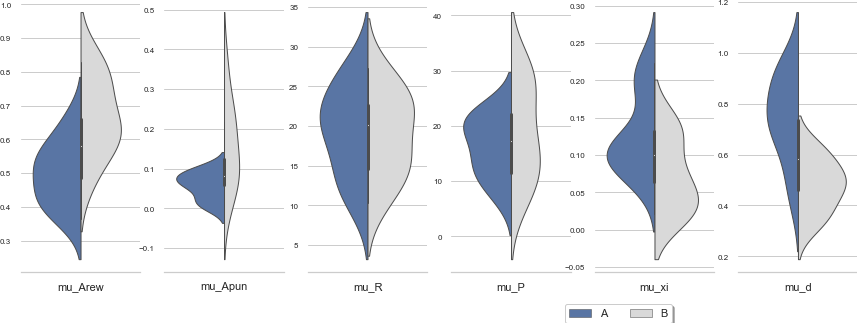
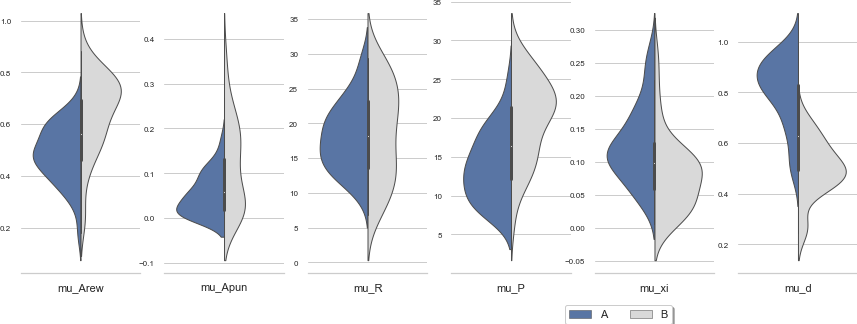
plotting added

diff --git a/data_fit/fit_bandit3arm_combined.py b/data_fit/fit_bandit3arm_combined.py
@@ -132,7 +132,7 @@ def comp_hdi_mean_data(model_name,param_ls, groups_comp=None):
 
 if __name__ == "__main__":
    # parse data
-     try:
+    try:    
         groups_comp = sys.argv[1]
         groups_comp = groups_comp.split(",")
     except IndexError:
@@ -149,6 +149,7 @@ if __name__ == "__main__":
     model_code = open('./models/bandit3arm_combLR_lapse_decay_b.stan', 'r').read()
     pars_ind = ['Arew', 'Apun', 'R', 'P', 'xi','d']
     pars = ['mu_Arew', 'mu_Apun', 'mu_R', 'mu_P', 'mu_xi','mu_d']
+    fits=[]
     for g in groups_comp:
         group_value = data_dict['group']
         print('Group: '+g)
@@ -171,6 +172,7 @@ if __name__ == "__main__":
         # fit stan model
         posterior = stan.build(program_code=model_code, data=data_dict_gr)
         fit = posterior.sample(num_samples=10, num_chains=4)
+        fits.append(fit)
         df = fit.to_frame()  # pandas `DataFrame, requires pandas
         data_dict_gr['group'] = group_value
 
@@ -195,6 +197,22 @@ if __name__ == "__main__":
         df_extracted.to_csv(sfile, index=None)
         df_ind.to_csv(s_ind_file, index=None)
         
+        diag_plot = az.plot_trace(fit,var_names=pars,compact=True,combined=True)
+        save_dir = './data_output/bandit3arm_combined_mydata/'
+        if not os.path.isdir(save_dir):
+            os.mkdir(save_dir)
+        save_name = 'diag_post_trace'+g+'.png'
+        fig = diag_plot.ravel()[0].figure
+        fig.savefig(save_dir+save_name,bbox_inches='tight',pad_inches=0)
+        
     comp_hdi_mean_data('bandit3arm_combined', param_ls=pars, groups_comp=groups_comp)
     plot_violin_params_mean('bandit3arm_combined', param_ls=pars, groups_comp=groups_comp)   
+
+       
+    hdi_plot = az.plot_forest(fits,model_names=groups_comp,var_names=pars,figsize=(7,7),combined=True)
+    fig = hdi_plot.ravel()[0].figure
+    save_name = 'HDI_comp'+''.join(groups_comp)+'.png'
+    save_dir = './data_output/bandit3arm_combined_mydata/'
+    fig.savefig(save_dir+save_name,bbox_inches='tight',pad_inches=0)
+
     

diff --git a/data_fit/fit_generalise_gs.py b/data_fit/fit_generalise_gs.py
@@ -55,6 +55,7 @@ if __name__ == "__main__":
     model_code = open('./models/generalise_gs.stan', 'r').read() # moved to y changes
     pars_ind = ['sigma_a', 'sigma_n', 'eta', 'kappa', 'beta', 'bias']
     pars = ['mu_sigma_a', 'mu_sigma_n', 'mu_eta', 'mu_kappa', 'mu_beta', 'mu_bias']
+    fits=[]
     
     for g in groups_comp:
         group_value = data_dict['group']
@@ -79,6 +80,7 @@ if __name__ == "__main__":
         # fit stan model
         posterior = stan.build(program_code=model_code, data=data_dict_gr)
         fit = posterior.sample(num_samples=10, num_chains=1)
+        fits.append(fit)
         df = fit.to_frame()  # pandas `DataFrame, requires pandas
         data_dict_gr['group'] = group_value
         
@@ -103,7 +105,22 @@ if __name__ == "__main__":
         df_extracted.to_csv(sfile, index=None)
         df_ind.to_csv(s_ind_file, index=None)
         
+        diag_plot = az.plot_trace(fit,var_names=pars,compact=True,combined=True)
+        save_dir = './data_output/generalise_mydata/'
+        if not os.path.isdir(save_dir):
+            os.mkdir(save_dir)
+        save_name = 'diag_post_trace'+g+'.png'
+        fig = diag_plot.ravel()[0].figure
+        fig.savefig(save_dir+save_name,bbox_inches='tight',pad_inches=0)
+        
     comp_hdi_mean_data('generalise', param_ls=pars, groups_comp=groups_comp)
     plot_violin_params_mean('generalise', param_ls=pars, groups_comp=groups_comp)   
+
+       
+    hdi_plot = az.plot_forest(fits,model_names=groups_comp,var_names=pars,figsize=(7,7),combined=True)
+    fig = hdi_plot.ravel()[0].figure
+    save_name = 'HDI_comp'+''.join(groups_comp)+'.png'
+    save_dir = './data_output/generalise_mydata/'
+    fig.savefig(save_dir+save_name,bbox_inches='tight',pad_inches=0)
         
 
